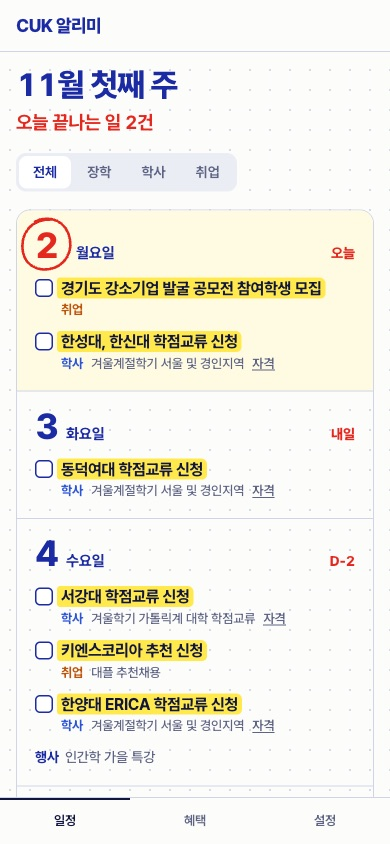
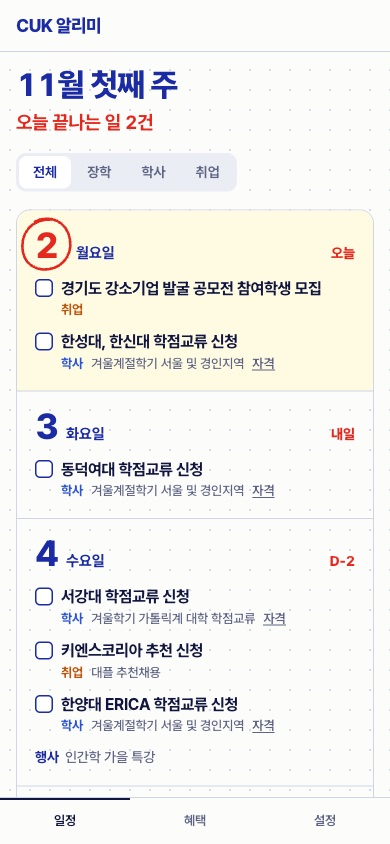
feat: 형광펜을 빼고 급한 날짜는 빨강으로만 표시한다

Changed region(s): [[0.1231, 0.6777, 0.6462, 0.8626], [0.1231, 0.3081, 0.8308, 0.4313], [0.1231, 0.5237, 0.5538, 0.5853]]

diff --git a/web/src/app/globals.css b/web/src/app/globals.css
@@ -1,6 +1,6 @@
 /*
  * CUK 알리미 화면 규칙. 값은 docs/design.md가 기준이다.
- * 점 찍힌 종이에 볼펜 파랑. 형광펜은 이틀 안의 일에만, 빨강은 오늘과 이틀 안의 표시에만.
+ * 점 찍힌 종이에 볼펜 파랑. 빨강은 오늘과 이틀 안의 표시에만.
  */
 
 :root {
@@ -15,7 +15,6 @@
   --hair: #cfd5e6;
   --hair-2: #b3bbd2;
   --seg: #ebedf4;
-  --hl: #ffe94d;
   --today: #fffbe3;
   --alarm: #e5281e;
   --alarm-2: #fdecea;
@@ -836,15 +835,6 @@ legend + * {
   text-decoration: underline;
 }
 
-.cell.hot .do a > span:first-child {
-  -webkit-box-decoration-break: clone;
-  box-decoration-break: clone;
-  margin-left: -4px;
-  padding: 1px 4px;
-  border-radius: 3px 6px 5px 3px;
-  background: var(--hl);
-}
-
 .it .m {
   display: flex;
   flex-wrap: wrap;
@@ -948,10 +938,6 @@ legend + * {
   text-decoration: line-through;
 }
 
-.it.done .do a > span:first-child {
-  background: none;
-}
-
 .keep {
   padding: 3px 0 0;
   border: 0;
@@ -968,7 +954,7 @@ legend + * {
   color: var(--pen);
 }
 
-/* 행사. 할 일이 아니라서 체크와 형광펜 없이 흐린 글자로만 적는다. */
+/* 행사. 할 일이 아니라서 체크 없이 흐린 글자로만 적는다. */
 .events {
   display: grid;
   gap: 4px;
@@ -1274,13 +1260,6 @@ details.fold .note {
   letter-spacing: -0.3px;
   line-height: 1.45;
   color: var(--cat, var(--ink));
-}
-
-.benefit.hot .name span {
-  padding: 1px 4px;
-  margin-left: -4px;
-  border-radius: 3px 6px 5px 3px;
-  background: var(--hl);
 }
 
 .benefit .desc {

diff --git a/docs/design.md b/docs/design.md
@@ -4,7 +4,7 @@
 
 ## Direction
 
-**위클리 플래너.** 학생이 공부할 때 쓰는 불렛저널을 화면으로 옮긴다. 점 찍힌 종이, 볼펜 파랑, 형광펜, 빨간 펜이 재료다. 한 주가 한눈에 보여야 하고, 재료는 뜻이 있을 때만 쓴다. 다꾸처럼 꾸미지 않는다.
+**위클리 플래너.** 학생이 공부할 때 쓰는 불렛저널을 화면으로 옮긴다. 점 찍힌 종이, 볼펜 파랑, 빨간 펜이 재료다. 한 주가 한눈에 보여야 하고, 재료는 뜻이 있을 때만 쓴다. 다꾸처럼 꾸미지 않는다.
 
 ## Type
 
@@ -34,12 +34,11 @@
 | `--body` | `#3D4366` | 본문 |
 | `--mute` | `#5D6484` | 메타, 여유 있는 남은 날 |
 | `--hair`, `--hair-2` | `#CFD5E6`, `#B3BBD2` | 칸 선, 입력 테두리 |
-| `--hl` | `#FFE94D` | 형광펜. 오늘부터 D-2까지의 할 일에만 |
 | `--today` | `#FFFBE3` | 오늘 칸 |
 | `--alarm` | `#E5281E` | 오늘 한 줄, 오늘 숫자와 동그라미, D-2까지의 남은 날, 오류 |
 | `--c-jang` `--c-hak` `--c-chwi` | `#0F7F55` `#2B55D6` `#BF540B` | 분류 글자 장학, 학사, 취업 |
 
-분류는 글자색으로만 구분한다. 분류마다 형광펜 색을 다르게 쓰지 않는다. 다크 모드는 없다.
+분류는 글자색으로만 구분한다. 다크 모드는 없다.
 
 ## Space and shape
 
@@ -61,7 +60,7 @@
 
 **시작일.** 학사일정 표 항목의 시작일은 그 날짜 칸에 "시작"과 이름을 행사와 같은 모양으로 적는다.
 
-**행사.** 학위수여식처럼 할 일 없이 날짜만 있는 행사는 칸 아래에 "행사"와 이름, 시각을 14px 흐린 글자로 적는다. 체크, 형광펜, 남은 날을 쓰지 않고 오늘 한 줄의 건수에도 세지 않는다. 신청이 있는 공지의 행사일도 같은 모양으로 적는다.
+**행사.** 학위수여식처럼 할 일 없이 날짜만 있는 행사는 칸 아래에 "행사"와 이름, 시각을 14px 흐린 글자로 적는다. 체크와 남은 날을 쓰지 않고 오늘 한 줄의 건수에도 세지 않는다. 신청이 있는 공지의 행사일도 같은 모양으로 적는다.
 
 **분류.** 학생이 보는 분류는 전체, 장학, 학사, 취업이다. 학사일정 표의 항목도 학사로 묶는다. 출처 구분은 서버의 `kind`에만 남긴다.
 
@@ -73,10 +72,10 @@
 
 ## References
 
-- 스터디 플래너와 불렛저널: 주간 칸, 점 종이, 형광펜, 빨간 펜 동그라미.
+- 스터디 플래너와 불렛저널: 주간 칸, 점 종이, 빨간 펜 동그라미.
 - Things Upcoming: 날짜 숫자와 체크 행.
 - 자소설닷컴 채용달력(`docs/research/2026-11-02-home-design.md`): 첫 화면이 곧 도구이고 넓이를 칸으로 쓴다.
-- 가져오지 않은 것: 모눈 배경, 색색의 인덱스 탭, 분류별 형광펜. 비평에서 유치하다는 지적을 받았다.
+- 가져오지 않은 것: 모눈 배경, 색색의 인덱스 탭, 형광펜.
 
 ## Motion
 
@@ -87,7 +86,7 @@
 - 불러오는 중: 판 자리에 `--paper-2` 면 하나.
 - 오류: 머리 아래 `--alarm` 글자 한 줄과 "다시 시도".
 - 비어 있음: 빈 칸은 그대로 두고 머리 한 줄이 "이번 주에 끝나는 일은 없어요"로 바뀐다.
-- 끝냈어요: 체크가 채워지고 글자가 흐려지며 취소선, 형광펜이 사라진다. 오늘 한 줄의 건수가 줄어든다.
+- 끝냈어요: 체크가 채워지고 글자가 흐려지며 취소선이 그어진다. 오늘 한 줄의 건수가 줄어든다.
 - 포커스: 2px `--pen` 바깥선.
 
 ## Sample data

diff --git a/README.md b/README.md
@@ -56,7 +56,7 @@
 ## 무엇을 하나요
 
 - 학사일정(수강신청, 수강신청 변경, 등록기간, 휴학·복학, 성적 정정)과 공지사항의 장학·학사·취업 글에서 학생이 해야 할 일의 마감만 골라 보여줍니다. 공문 제목 대신 "서강대 학점교류 신청"처럼 할 일로 적고, 누르면 학교 원문으로 갑니다.
-- 홈은 이번 주와 다음 주를 8칸 플래너로 펼칩니다. 이틀 안의 일에는 형광펜이 칠해지고, 끝낸 일은 체크해 지웁니다. 날짜가 그림에만 있어 확인 중인 공지는 메모 칸에, 다른 지역 장학과 특정 계층·분야 장학은 판 아래에 접어 둡니다.
+- 홈은 이번 주와 다음 주를 8칸 플래너로 펼칩니다. 이틀 안의 날짜는 빨갛게 표시되고, 끝낸 일은 체크해 지웁니다. 날짜가 그림에만 있어 확인 중인 공지는 메모 칸에, 다른 지역 장학과 특정 계층·분야 장학은 판 아래에 접어 둡니다.
 - 대학생 자격으로 받는 혜택(개발 도구, 구독, 장학·학비)을 체크리스트로 관리합니다. 목록은 `src/main/resources/benefits.yml`에 있고, 항목마다 출처와 확인일이 붙어 있습니다.
 - 알림은 아침 8시 메일 한 통뿐입니다. 새 공지, 저장한 마감 3일 전, 체크한 혜택 만료 7일 전을 묶고, 보낼 것이 없는 날은 보내지 않습니다. 같은 공지는 한 번만 갑니다.
 - 그림 받아 적기는 `ANTHROPIC_API_KEY`를 주지 않으면 꺼집니다.
